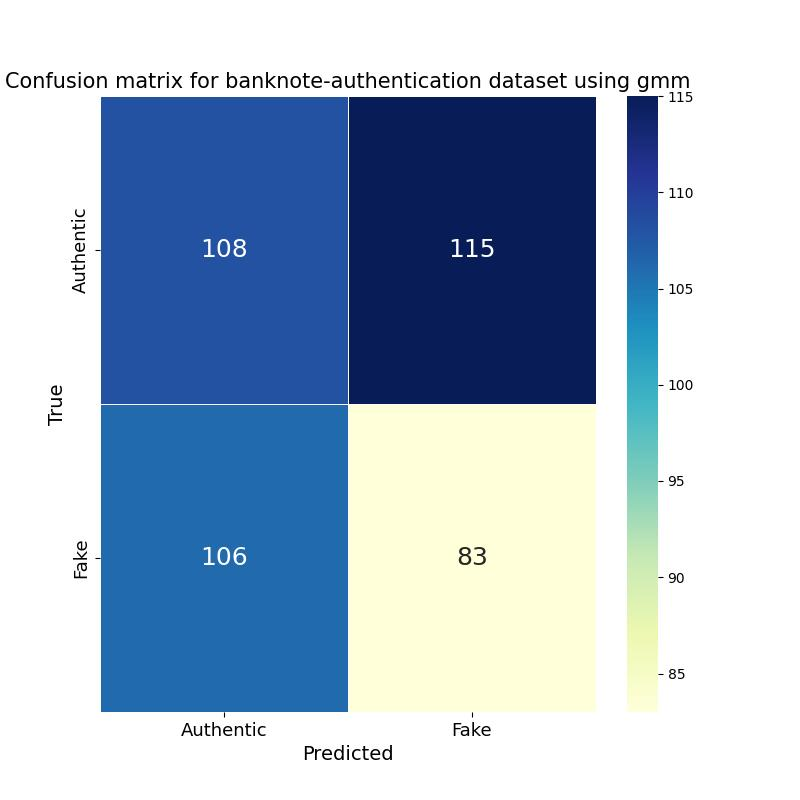
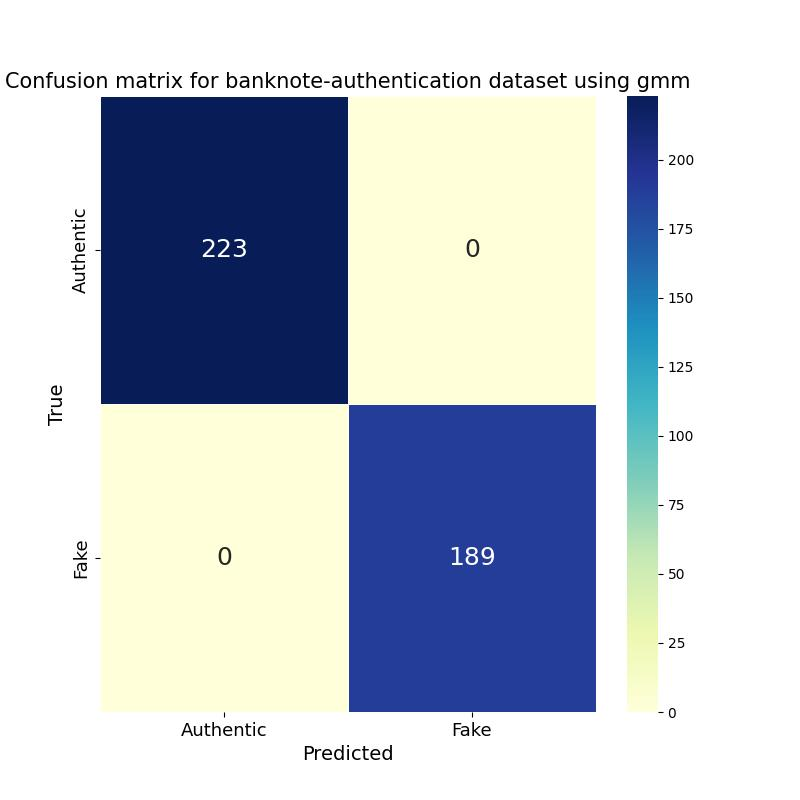
supervised GMM implementation

diff --git a/main.py b/main.py
@@ -29,7 +29,7 @@ target_df = y_ba
 X_train_ba, X_test_ba, y_train_ba, y_test_ba = train_test_split(ba, y_ba, test_size=0.3, random_state=48)
 X_train_kd, X_test_kd, y_train_kd, y_test_kd = train_test_split(kd, y_kd, test_size=0.3, random_state=48)
 
-#K Nearest neighbors
+# K Nearest neighbors
 y_pred_knn_ba = fit_knn(X_train_ba, X_test_ba, y_train_ba, y_test_ba, 'banknote-auth')
 y_pred_knn_kd = fit_knn(X_train_kd, X_test_kd, y_train_kd, y_test_kd, 'kidney-disease')
 
@@ -37,11 +37,9 @@ y_pred_knn_kd = fit_knn(X_train_kd, X_test_kd, y_train_kd, y_test_kd, 'kidney-di
 y_pred_svm_ba = fit_svm(X_train_ba, X_test_ba, y_train_ba, y_test_ba, 'banknote-auth')
 y_pred_svm_kd = fit_svm(X_train_kd, X_test_kd, y_train_kd, y_test_kd, 'kidney-disease')
 
-
 # Gaussian Mixture Model
-X_train_ba_pca, X_test_ba_pca, y_train_ba_pca, y_test_ba_pca = train_test_split(ba_pca, y_ba, test_size=0.3, random_state=48)
-y_pred_gmm_ba, means, covariances = fit_gmm(X_train_ba_pca, X_test_ba_pca, y_train_ba_pca, y_test_ba_pca, 'banknote-auth')
-y_pred_gmm_kd, _, _ = fit_gmm(X_train_kd, X_test_kd, y_train_kd, y_test_kd, 'kidney-disease')
+y_pred_gmm_ba = fit_gmm(X_train_ba, X_test_ba, y_train_ba, y_test_ba, 'banknote-auth')
+y_pred_gmm_kd = fit_gmm(X_train_kd, X_test_kd, y_train_kd, y_test_kd, 'kidney-disease')
 
 # Neural network
 y_pred_nn_ba = fit_nn(X_train_ba, X_test_ba, y_train_ba, y_test_ba, 'banknote-auth')
@@ -56,5 +54,3 @@ datasets = ['banknote-authentication', 'kidney-disease']
 for i in range(len(models)):
     for j in range(len(y_test)):
         plot_confusion_matrix(y_test[j], y_pred[i][j], models[i], datasets[j])
-
-plot_gmm_covariances(X_train_ba_pca,y_train_ba_pca, means, covariances)

diff --git a/lib/tools.py b/lib/tools.py
@@ -35,39 +35,4 @@ def plot_confusion_matrix(y_test, y_pred, model_name, dataset_name):
     plt.ylabel('True', fontsize=14)
     plt.title('Confusion matrix for %s dataset using %s' % (dataset_name, model_name), fontsize=15)
     plt.savefig("plots/confusion_matrices/Confusion_Matrix_%s_%s.jpg" % (dataset_name, model_name))
-    
 
-
-def plot_gmm_covariances(X_train, y_train, means, covariances):
-    '''
-    Function to plot covariances of the gaussian mixture model.
-
-    INPUT
-    X_train: train labels
-    y_train: predicted train labels
-    means: means of the gaussian mixture models
-    covariances: covariance of the gaussian mixture models
-
-    AUTHOR
-    Mateo Bentura
-    '''
-    plt.figure(figsize=(8,8))
-    ax = plt.gca()
-    colors = ["tab:red", "tab:blue"]
-    for n in range(2):
-        ax.scatter(X_train[y_train==n][0], X_train[y_train==n][1], c=colors[n], label=str(n), alpha=0.6, marker='x')
-        eig_val, eig_vect = np.linalg.eigh(covariances[n])
-        radius_x, radius_y = np.sqrt(2)*np.sqrt(eig_val)
-        u = eig_vect[0] / np.linalg.norm(eig_vect[0])
-        angle = 180 * np.arctan2(u[1], u[0]) / np.pi + 180
-        ell = patches.Ellipse(
-            means[n], width=radius_x*2, height=radius_y*2, angle=angle, color=colors[n]
-        )
-        ell.set_clip_box(ax.bbox)
-        ell.set_alpha(0.5)
-        ax.add_artist(ell)
-        ax.set_aspect("equal", "datalim")
-
-    plt.legend()
-    plt.title('Scatter plot of PCA components for dataset banknote-authentication\nwith Gaussian mixture models')
-    plt.savefig("plots/covariance_plots/Covariance_Plot_banknote-authentication")

diff --git a/lib/ml_functions.py b/lib/ml_functions.py
@@ -150,7 +150,7 @@ def fit_gmm(X_train, X_test, y_train, y_test, dataset_name):
     INPUT
     X_train: features for training
     X_test: features for testing
-    y_train: targets for training (**not used: unsupervised method**)
+    y_train: targets for training
     y_test: targets for testing
     dataset_name: A string containing the dataset name
 
@@ -160,16 +160,27 @@ def fit_gmm(X_train, X_test, y_train, y_test, dataset_name):
     AUTHOR
     Mateo Bentura
     '''
-    gm = GaussianMixture(n_components=y_train.nunique())
-    gm.fit(X_train)
-    y_predicted = gm.predict(X_test)
+    classes = y_test.nunique()
+    
+    if dataset_name == 'banknote-auth':
+        K = 4
+
+    if dataset_name == 'kidney-disease':
+        K = 2
+ 
+    log_likelyhood = np.zeros(y_test.shape+(classes,))
+    for n in range(classes):
+        gm = GaussianMixture(n_components=K)
+        gm.fit(X_train[y_train==n])
+        log_likelyhood[:,n] = gm.score_samples(X_test)
+
+    y_predicted = log_likelyhood.argmax(axis=1)
     accuracy = accuracy_score(y_test, y_predicted)
     print('Gaussian mixture model test for dataset %s: %2d%% (%2d/%2d)' %
           (dataset_name, accuracy * 100, accuracy * len(y_test), len(y_test)))
     print('---------------------------------')
-    # X_samples, y_samples = gm.sample(n_samples=1000)
 
-    return y_predicted, gm.means_, gm.covariances_
+    return y_predicted
 
 def fit_svm(X_train, X_test, y_train, y_test, dataset_name):
     '''
